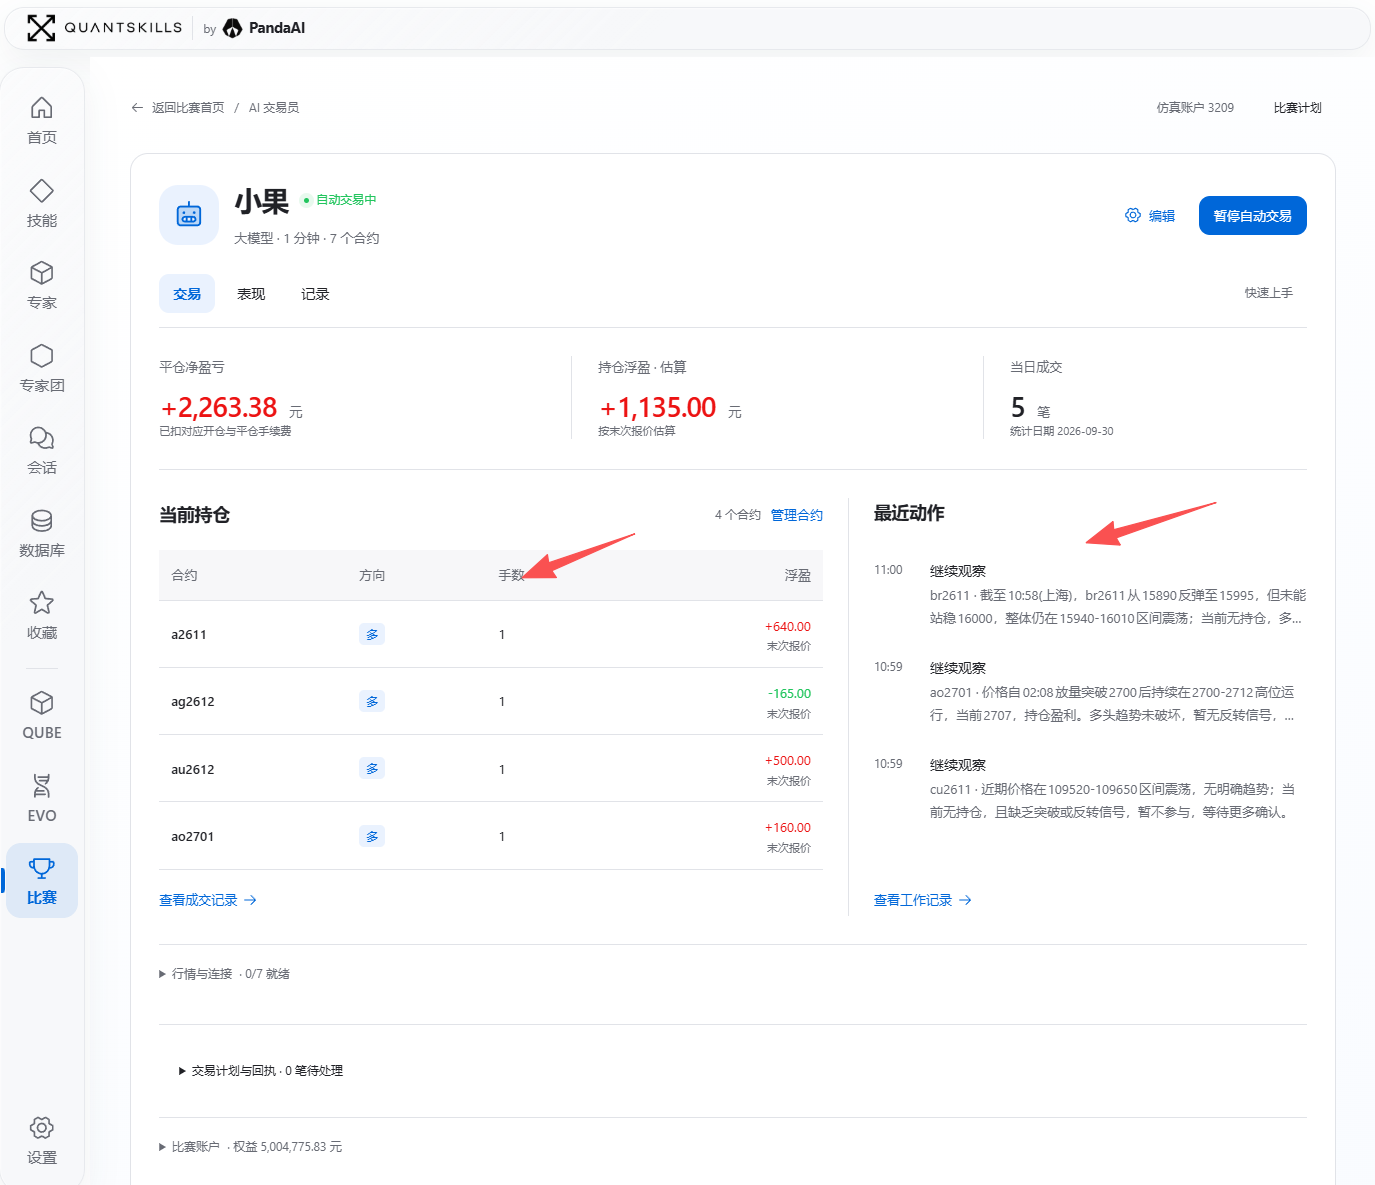
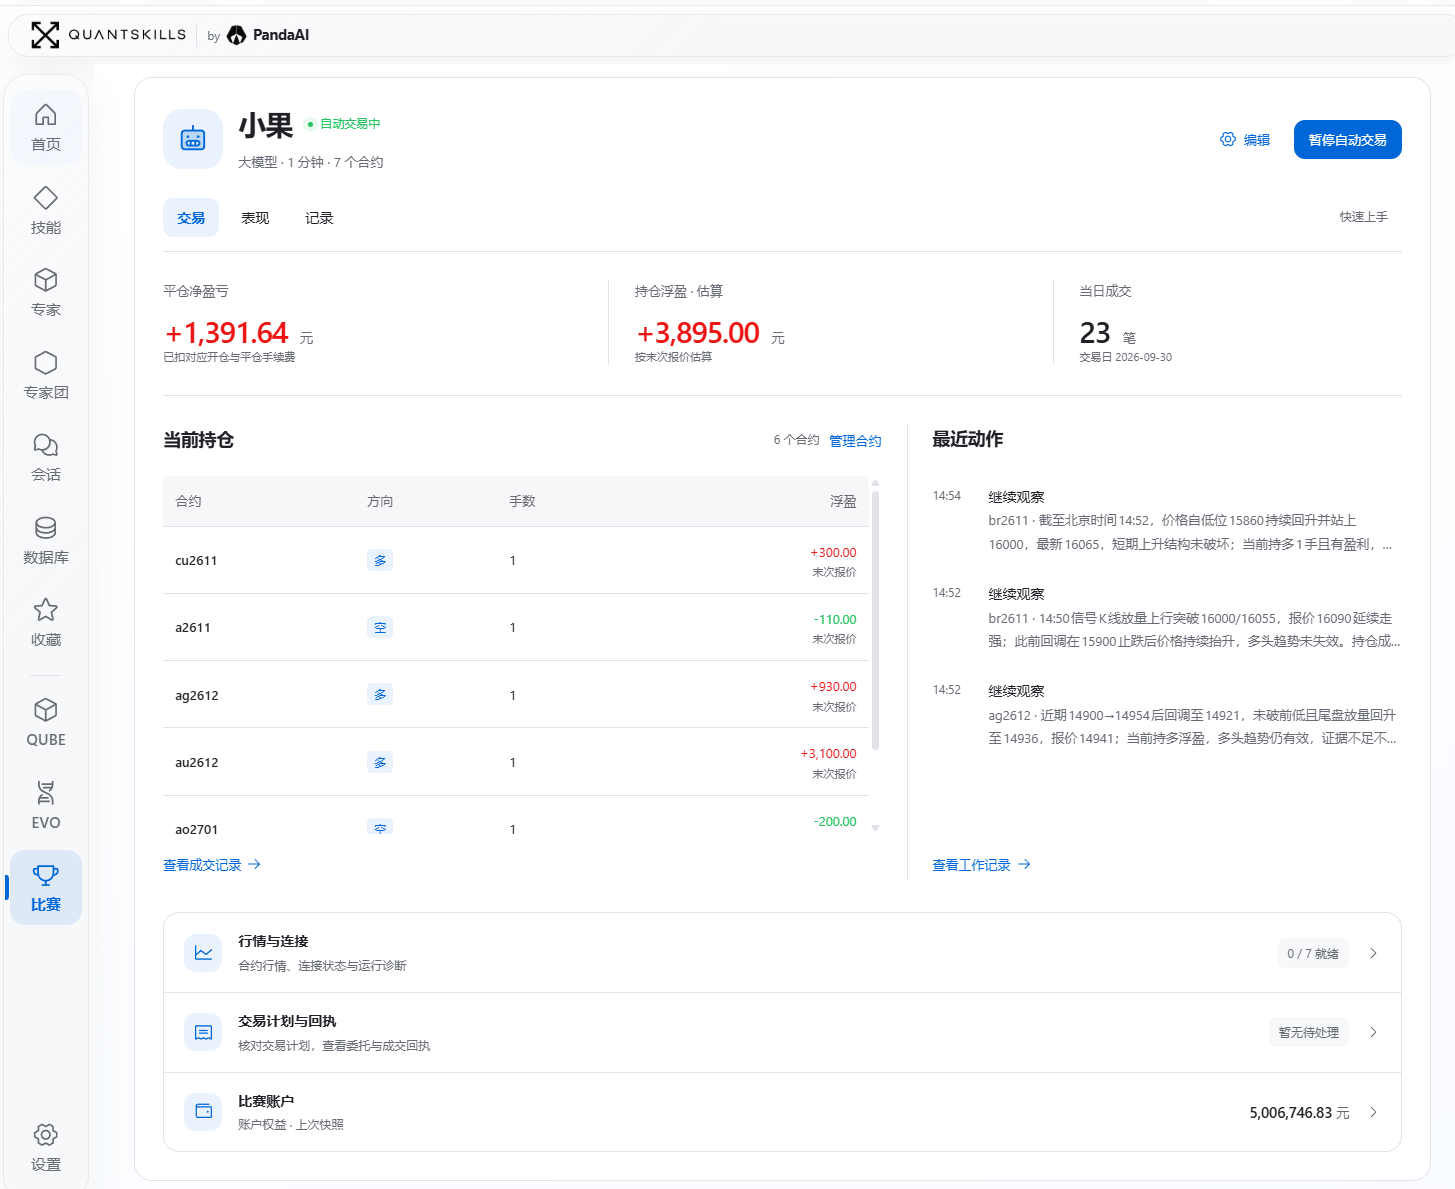
docs: refresh trading screenshots and add complete agent setup prompts

diff --git a/README.en.md b/README.en.md
@@ -8,7 +8,7 @@
 
 From QuantSkills, an open-source community under PandaAI
 
-[Get started](#get-started) · [QUANT](#quant-research) · [Work](#work-everyday-tasks) · [Trade](#trade-research-monitoring-and-execution) · [简体中文](README.md) · [GitHub](https://github.com/quantskills/QuantStudio) · [Gitee](https://gitee.com/quantskills/QuantStudio)
+[Get started](#get-started) · [Agent setup](#agent-install) · [QUANT](#quant-research) · [Work](#work-everyday-tasks) · [Trade](#trade-research-monitoring-and-execution) · [简体中文](README.md) · [GitHub](https://github.com/quantskills/QuantStudio) · [Gitee](https://gitee.com/quantskills/QuantStudio)
 
 ![QuantStudio: describe a task and choose skills, specialists or teams](docs/images/launch-white/hero.png)
 
@@ -60,7 +60,7 @@ The current futures integration uses the PandaAI competition CLI for **simulated
 
 ### Positions and recent decisions
 
-The Trading page opens with closed net P&L, estimated floating P&L and the daily fill count. Current positions and recent actions sit below, with detailed reasoning available in work records.
+The Trading page opens with closed net P&L, estimated floating P&L and the daily fill count. Current positions and recent actions sit below. Expand the market connection, trade plans and account sections when needed.
 
 ![AI Trader positions, sizes and recent decisions](docs/images/trade/positions-and-decisions.png)
 
@@ -78,7 +78,17 @@ Partial closes allocate opening fees by matched quantity; opening costs are reta
 
 ![Fills with commissions and closed net P&L after opening and closing fees](docs/images/trade/fills-net-pnl.png)
 
-These three screenshots show the actual futures simulation interface at specific times. They illustrate features, not future returns.
+### Performance: returns, fees and their sources
+
+The Performance page supports a single day, the past 7 or 30 days, and custom dates. Change the sampling period, inspect data gaps or export CSV. Account net closing P&L, range net return, maximum drawdown and the trader's closing win rate sit above the P&L curve, return breakdown, product contributions and win/loss distribution.
+
+![Actual performance view: account net P&L after fees, return breakdown and trade analysis](docs/images/trade/trading-performance.png)
+
+**Check the scope before comparing numbers.** Account returns on the Performance page cover the whole competition account; closed net P&L on the Trading page uses AI Trader's matched fills. They cover different scopes. The breakdown lists opening and closing fees separately, while gross metrics such as product contributions and closing win rate are labeled before fees. Missing values remain unknown instead of becoming zero.
+
+The Records page shows **20 entries per page**, with source filters, selected deletion and delete all. Deletion requires confirmation and clears the displayed journal while retaining execution receipts, P&L records and strategy audit evidence.
+
+Screenshots in this section show the actual futures simulation interface at different times. They illustrate features, not future returns.
 
 ### First run
 
@@ -112,20 +122,161 @@ You can use the Gitee mirror instead:
 git clone -c core.longpaths=true https://gitee.com/quantskills/QuantStudio.git
 ```
 
-### macOS: have a local agent install it
+<a id="agent-install"></a>
 
-macOS users can give their local agent the repository URL and the following instructions so it can install, verify and start QuantStudio:
+### Install with a local agent: complete macOS / Windows prompts
 
-Repository URL: <https://github.com/quantskills/QuantStudio>
+Copy the appropriate prompt into an agent **with terminal and file access on the target computer**. It will check prerequisites, install dependencies, run checks and start the app, explaining any system authorization or manual steps it needs. Each prompt includes the repository URLs and can be copied on its own.
+
+<details>
+<summary><strong>macOS: expand and copy the complete installation prompt</strong></summary>
 
 ```text
-Install and start QuantStudio on this Mac:
-1. Read the repository README and package.json first. Check that Git, Node.js (22.19+ in the 22.x line, or 24+), and pnpm 11.7.0 are available; install missing prerequisites using the normal method for this system, and report specific steps only if automatic installation is not possible.
-2. Clone https://github.com/quantskills/QuantStudio into a suitable local directory. If the directory already exists, verify that it is this repository before updating it or choosing a new clean directory.
-3. In the repository, run corepack enable and confirm that corepack pnpm --version is 11.7.0; then use corepack pnpm install --frozen-lockfile. Use the new ~/.dsh-quantstudio data directory by default. Do not delete or overwrite ~/.dsh, ~/.dsh-quantstudio, or other personal data unless I explicitly ask you to.
-4. Run corepack pnpm run check, corepack pnpm run test, and corepack pnpm run test:update. If anything fails, locate the cause and report it instead of skipping the check.
-5. Run corepack pnpm run web. Once the local service is healthy, send me the URL printed by the terminal. Keep the service running and report the actual directory, Node/pnpm versions, test results, and URL.
+Install, verify and start QuantStudio on this Mac. Leave a working local service running when finished.
+Official repository: https://github.com/quantskills/QuantStudio.git
+Mirror: https://gitee.com/quantskills/QuantStudio.git
+
+1.
+   Inspect the system and tools.
+   Identify Apple Silicon or Intel and record macOS, Git, Node.js, npm and Corepack versions and paths.
+   Read README.md, engines/packageManager in package.json, and the installation scripts.
+   Current requirements are Node.js 22.19+ in the 22.x line or 24+, and pnpm 11.7.0.
+   Install missing tools through official installers or an existing package manager, matching the architecture.
+   Preserve runtimes used by other projects.
+   Explain any required system authorization.
+
+2.
+   Prepare the source in a writable directory such as ~/QuantStudio.
+   Run git clone -c core.longpaths=true --branch main https://github.com/quantskills/QuantStudio.git.
+   Use the Gitee mirror if GitHub is unreachable and report that choice.
+   If the directory exists, inspect its remote, branch and git status; update only a clean checkout that can fast-forward.
+   Otherwise preserve it and choose a new directory without force-resetting or cleaning files.
+
+3.
+   Pin the package manager.
+   In the repository, run corepack enable and corepack pnpm --version.
+   Verify the version matches package.json (currently 11.7.0).
+   If Corepack is missing or reports an outdated entry point/signature error, follow https://github.com/nodejs/corepack to install or update it, then retry.
+   Do not switch to pnpm@latest or change packageManager/the lockfile to bypass errors.
+   Do not run an unpinned pnpm installation outside the repository.
+
+4.
+   Run corepack pnpm install --frozen-lockfile from the repository root.
+   Check the exit code.
+   Diagnose network, Node, permissions or dependency errors before continuing; retain the lockfile and do not report a failed installation as complete.
+
+5.
+   Run corepack pnpm run check, corepack pnpm run test, and corepack pnpm run test:update in sequence.
+   Report each result.
+   Investigate failures instead of skipping or weakening checks.
+   Keep installation logs and scratch files outside the repository so untracked files do not cause first launch to select development mode.
+
+6.
+   Preserve existing data.
+   Let the app resolve its data directory: a new installation defaults to ~/.dsh-quantstudio with the quantstudio profile; a recognized older QuantStudio installation may retain ~/.dsh.
+   Inspect and report existing DSH_HOME/QUANTSKILLS_PROFILE overrides before changing them.
+   Do not delete sessions, keys or plugins, or manually rewrite ordinary DSH's web profile.
+
+7.
+   Start from the repository using corepack pnpm run web through the normal launcher.
+   Do not bypass installation by invoking dsh directly.
+   Inspect existing services and occupied ports; do not terminate unrelated processes.
+   Select an available port if needed and record it.
+   Use a persistent terminal or managed background process, keeping logs and a documented stop procedure.
+
+8.
+   Verify the address actually printed in the startup log rather than assuming a port.
+   Check HTTP, then open the QuantStudio home and Settings in a browser and check for startup errors.
+   Without browser access, explicitly report HTTP-only verification and give manual UI checks.
+   If it runs from a development checkout, report that rather than claiming managed installation.
+   Resolve actual filesystem paths when troubleshooting /tmp versus /private/tmp.
+
+9.
+   Report the source directory, commit, actual runtime directory, DSH_HOME, profile, Node/pnpm versions, check results, URL, logs, and commands to stop and start next time.
+   Leave the service running.
+   I will enter model keys in Settings → Model services; do not expose credentials in logs or replies.
+   Do not connect trading accounts or start trading as part of installation.
+   A working macOS workspace does not establish that every trading runtime is supported or prepared; report module-specific requirements separately.
 ```
+
+</details>
+
+<details>
+<summary><strong>Windows: expand and copy the complete installation prompt</strong></summary>
+
+```text
+Use PowerShell to install, verify and start QuantStudio on this Windows computer. Leave a working local service running when finished.
+Official repository: https://github.com/quantskills/QuantStudio.git
+Mirror: https://gitee.com/quantskills/QuantStudio.git
+
+1.
+   Inspect Windows version, x64/ARM64 architecture, and Git, Node.js, npm and Corepack versions and paths.
+   Use Get-Command/where.exe to detect competing PATH entries.
+   Read README.md, engines/packageManager in package.json, and installation scripts.
+   Current requirements are Node.js 22.19+ in the 22.x line or 24+, and pnpm 11.7.0.
+   Install missing tools through official installers or an existing package manager, refresh the process PATH and verify again.
+   Do not require the whole app to run as administrator by default.
+
+2.
+   Choose a short writable source path, for example C:\QuantStudio; use another suitable location if it is occupied or not writable.
+   Avoid OneDrive and deeply nested directories.
+   Run git clone -c core.longpaths=true --branch main https://github.com/quantskills/QuantStudio.git <chosen-directory>.
+   Use Gitee if GitHub is unreachable and report that choice.
+   Inspect an existing directory's remote, branch and git status before using it.
+   Only update a clean checkout that can fast-forward; otherwise preserve it and choose a new directory without force-resetting or cleaning files.
+
+3.
+   Pin the package manager.
+   In the repository root run corepack.cmd enable and corepack.cmd pnpm --version.
+   Verify the package.json version (currently 11.7.0).
+   Use .cmd entry points to avoid PowerShell .ps1 execution-policy conflicts.
+   If Corepack is missing, outdated or conflicts with the Node Windows installer, follow the Windows instructions at https://github.com/nodejs/corepack.
+   Explain any required administrator step without disabling system security policy.
+   Do not switch to pnpm@latest or change packageManager/the lockfile to bypass errors.
+
+4.
+   Run corepack.cmd pnpm install --frozen-lockfile.
+   Check $LASTEXITCODE after each external command and stop dependent steps on failure.
+   Prefer a shorter path for path-length failures and diagnose connectivity before changing network settings.
+   Retain the lockfile and fixed dependency versions.
+
+5.
+   Run corepack.cmd pnpm run check, corepack.cmd pnpm run test, and corepack.cmd pnpm run test:update in sequence, recording each exit code and result.
+   Diagnose failures rather than skipping or weakening checks.
+   Store logs and scratch files outside the repository so they do not cause first launch to select development mode.
+
+6.
+   Preserve existing data.
+   New installations default to %USERPROFILE%\.dsh-quantstudio and the quantstudio profile; a recognized older QuantStudio installation may retain %USERPROFILE%\.dsh.
+   Inspect DSH_HOME/QUANTSKILLS_PROFILE before changing them.
+   Do not remove existing sessions, keys or plugins, or manually rewrite ordinary DSH's web profile.
+   Record source and data directories separately.
+
+7.
+   Run corepack.cmd pnpm run web through the normal launcher.
+   Do not invoke dsh directly to bypass preparation.
+   Inspect existing services and ports without terminating unrelated processes.
+   If changing the port, check the supported launcher arguments first.
+   Prefer a persistent terminal; when using Start-Process for a background service, include -WindowStyle Hidden, handle paths containing spaces correctly, retain logs and record the PID and stop procedure.
+
+8.
+   Use the URL printed in the startup log, not a hard-coded port such as 3198.
+   Check HTTP with Invoke-WebRequest, then verify the QuantStudio home and Settings in a browser and inspect startup errors.
+   Without browser access, report HTTP-only verification and provide manual UI checks.
+   Confirm the actual runtime directory and distinguish a development checkout from managed installation.
+   If a desktop shortcut was created, inspect its target rather than assuming it works.
+
+9.
+   Report source directory, commit, actual runtime directory, DSH_HOME, profile, Node/pnpm versions, check results, URL, logs, PID, and commands to stop and start next time.
+   Leave the service running.
+   I will enter model keys in Settings → Model services; do not expose credentials in logs or replies.
+   Do not connect trading accounts or start trading as part of installation.
+   Prepare AI Trader's Python environment separately through its UI when needed; the base workspace does not require Blender.
+```
+
+</details>
+
+**Corepack problems?** First verify the pinned pnpm version inside the repository. See the [official Corepack instructions](https://github.com/nodejs/corepack#how-to-install) for installation, updates and Windows installer conflicts. This project uses pnpm 11.7.0 rather than whichever major version the [general installation page](https://pnpm.io/installation) currently defaults to. In PowerShell, use `corepack.cmd` in place of `corepack` in the manual commands above.
 
 Open the URL printed in the terminal, such as `http://127.0.0.1:3198/`. Configure a model in Settings and start a conversation. Tasks using existing materials do not require a market-data connection.
 
